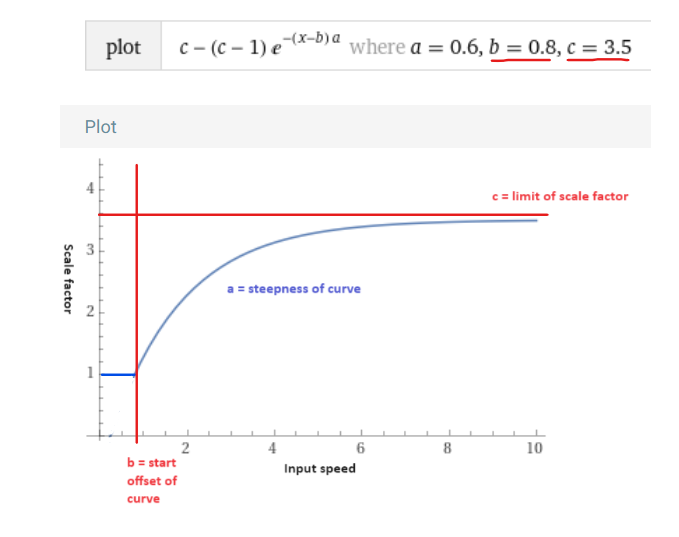
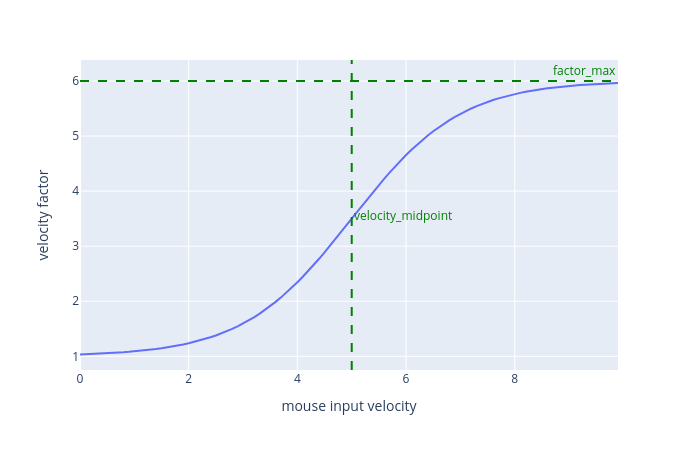
Refact(accel) sigmoid function

diff --git a/maccel/maccel.c b/maccel/maccel.c
@@ -20,15 +20,17 @@
 
 static uint32_t maccel_timer;
 
+
 #ifndef MACCEL_STEEPNESS
-#    define MACCEL_STEEPNESS 0.4 // steepness of accel curve
+#    define MACCEL_STEEPNESS 1.0 // steepness of accel sigmoid-curve
 #endif
 #ifndef MACCEL_OFFSET
-#    define MACCEL_OFFSET 1.1 // start offset of accel curve
+#    define MACCEL_OFFSET 5.0 // midpoint velocity of accel sigmoid-curve
 #endif
 #ifndef MACCEL_LIMIT
-#    define MACCEL_LIMIT 4.5 // upper limit of accel curve
+#    define MACCEL_LIMIT 6.0 // upper limit of accel sigmoid-curve
 #endif
+
 
 maccel_config_t g_maccel_config = {
     // clang-format off
@@ -36,7 +38,7 @@ maccel_config_t g_maccel_config = {
     .b = MACCEL_OFFSET,
     .c = MACCEL_LIMIT,
     .enabled = true
-    // clang-format on
+    // clang-format on,e
 };
 
 /* DEVICE_CPI_PARAM
@@ -59,15 +61,16 @@ A device specific parameter required to ensure consistent acceleration behaviour
 #    endif
 #endif
 
+
 #ifdef MACCEL_USE_KEYCODES
 #    ifndef MACCEL_STEEPNESS_STEP
-#        define MACCEL_STEEPNESS_STEP 0.01f
+#        define MACCEL_STEEPNESS_STEP 0.1f
 #    endif
 #    ifndef MACCEL_OFFSET_STEP
-#        define MACCEL_OFFSET_STEP 0.1f
+#        define MACCEL_OFFSET_STEP 0.5f
 #    endif
 #    ifndef MACCEL_LIMIT_STEP
-#        define MACCEL_LIMIT_STEP 0.1f
+#        define MACCEL_LIMIT_STEP 1.0f
 #    endif
 #endif
 
@@ -127,11 +130,13 @@ report_mouse_t pointing_device_task_maccel(report_mouse_t mouse_report) {
         const float dpi_correction = (float)100.0f / (DEVICE_CPI_PARAM * device_cpi);
         // calculate delta velocity: dv = dpi_correction * sqrt(dx^2 + dy^2)/dt
         const float velocity = dpi_correction * (sqrtf(mouse_report.x * mouse_report.x + mouse_report.y * mouse_report.y)) / delta_time;
-        // calculate mouse acceleration factor: f(dv) = c - (c - 1) * e^(-(dv - b) * a)
-        float maccel_factor = g_maccel_config.c - (g_maccel_config.c - 1) * expf(-1 * (velocity - g_maccel_config.b) * g_maccel_config.a);
-        if (maccel_factor <= 1) { // cut-off acceleration curve below maccel_factor = 1
-            maccel_factor = 1;
-        }
+        // calculate mouse acceleration factor: f(dv) = 1 + (c - 1) / (1 + e^(-(dv - b) * a))
+        const float steepness = g_maccel_config.a;
+        const float velocity_midpoint = g_maccel_config.b;
+        const float factor_max = g_maccel_config.c;
+        const float factor_min = 1;  //  Maybe turn it into proper param?
+        const float e = expf( - steepness * (velocity - velocity_midpoint));
+        const float maccel_factor = factor_min + (factor_max - factor_min) / (1 + e);
         // calculate accelerated delta X and Y values and clamp:
         const mouse_xy_report_t x = CONSTRAIN_REPORT(mouse_report.x * maccel_factor);
         const mouse_xy_report_t y = CONSTRAIN_REPORT(mouse_report.y * maccel_factor);

diff --git a/maccel/readme.md b/maccel/readme.md
@@ -86,17 +86,23 @@ See the configuration section on how to enable this feature once you have set it
 
 This accel curve works in opposite direction from what you may be used to from other acceleration tools, due to technical limitation in QMK. It scales pointer sensitivity upwards rather than downwards, which means you will likely have to lower your DPI setting from what you'd normally do.
 
-Several characteristics of the acceleration curve can be tweaked by adding relevant defines to `config.h`:
+Three characteristics of the acceleration curve can be tweaked by adding relevant defines to `config.h`,
+with these values as defaults:
+
 ```c
-#define MACCEL_STEEPNESS 0.6 // steepness of accel curve
-#define MACCEL_OFFSET 0.8    // start offset of accel curve
-#define MACCEL_LIMIT 3.5     // upper limit of accel curve
+#define MACCEL_STEEPNESS 1.0 // steepness of accel sigmoid-curve
+#define MACCEL_OFFSET 5.0    // midpoint velocity of accel sigmoid-curve
+#define MACCEL_LIMIT 6.0     // upper limit of accel sigmoid-curve
 ```
-[![](assets/accel_curve.png)](https://www.wolframalpha.com/input?i=plot+c-%28c-1%29%28e%5E%28-%28x-b%29*a%29%29+with+a%3D0.6+with+b%3D0.8+with+c%3D3.5+from+x%3D-0.1+to+10+from+y%3D-0.1+to+4.5)
 
-Interpret this graph as follows: horizontal axis is input velocity (ie. how fast you are physically moving your mouse/trackball/trackpad); vertical axis is the acceleration factor, which is the factor with which the input speed will be multiplied, resulting in your new output speed on screen. You can also understand this as a DPI scaling factor: at the start of the curve the factor is 1, and your mouse sensitivity will be equal to your default DPI setting. At the end of the curve, the factor approaches a limit which can be set by the LIMIT variable. The limit is 3.5 in this example and will result in a maximum mouse sensitivity of 3.5 times your default DPI.
+[![](assets/accel_curve.png)]()
 
-The OFFSET variable moves the start of the curve towards the right, which means acceleration will kick in only after a certain velocity is reached. This is useful for low speed precision movements, in effect what you might normally use SNIPING mode for - and this is intended to entirely replace SNIPING mode. If you do not like this, you can set this variable to 0.
+To find a curve that suits your needs, either run the [included python program](./plotaccel.py) to plot the curve 
+or plot it in [Wolfram Alpha](https://www.wolframalpha.com/input?i=plot++1%2B%28c-1%29%2F%281+%2B+e%5E%28-%28x-b%29*a%29%29+with+a%3D1+with+b%3D5+with+c%3D6+from+x%3D-0.1+to+10+from+y%3D-0.5+to+6.5).
+
+Interpret this graph as follows: horizontal x-axis is *input velocity* (ie. how fast you are physically moving your mouse/trackball/trackpad); vertical y-axis is the *acceleration factor*, which is the factor with which the input speed will be multiplied, resulting in your new output speed on screen. You can also understand this as a DPI scaling factor: at the start of the curve the factor is 1, and your mouse sensitivity will be equal to your default DPI setting. At the end of the curve, the factor approaches a limit which can be set by the LIMIT variable. The limit is 4 in this example and will result in a maximum mouse sensitivity of 4pp times your default DPI.
+
+The OFFSET variable moves the center of the curve towards the right, which means acceleration will kick in only after a certain velocity is reached. This is useful for low speed precision movements, in effect what you might normally use SNIPING mode for - and this is intended to entirely replace SNIPING mode.
 
 The STEEPNESS variable sets the steepness of the acceleration curve. A lower value will result in a flatter curve which takes longer to reach its LIMIT. A higher value will result in a steeper curve, which will reach its LIMIT faster.
 
@@ -126,9 +132,9 @@ The step keys will adjust the parameters by the following amounts, which can opt
 
 | Parameter | Default step value | Define name             |
 | ---       | ---                | ---                     |
-| Steepness | `+0.01`            | `MACCEL_STEEPNESS_STEP` |
-| Offset    | `+0.1`             | `MACCEL_OFFSET_STEP`    |
-| Limit     | `+0.1`             | `MACCEL_LIMIT_STEP`     |
+| Steepness | `+0.1`             | `MACCEL_STEEPNESS_STEP` |
+| Midpoint  | `+0.5`             | `MACCEL_OFFSET_STEP`    |
+| Limit     | `+1.0`             | `MACCEL_LIMIT_STEP`     |
 
 The modifier keys can be used to alter the step effect:
 
